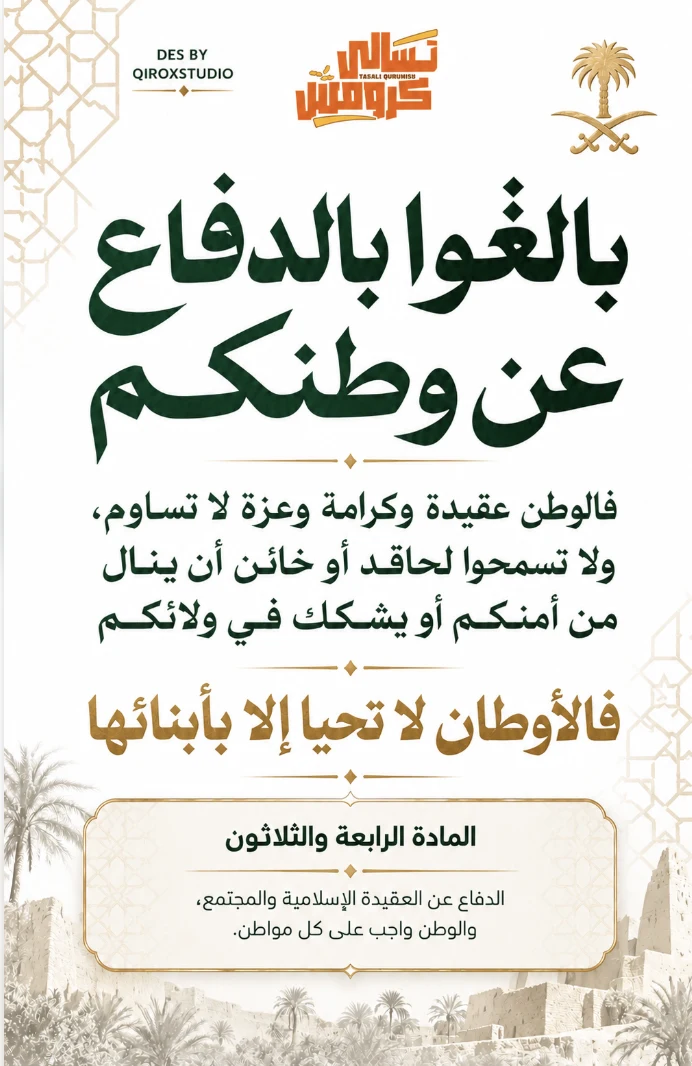
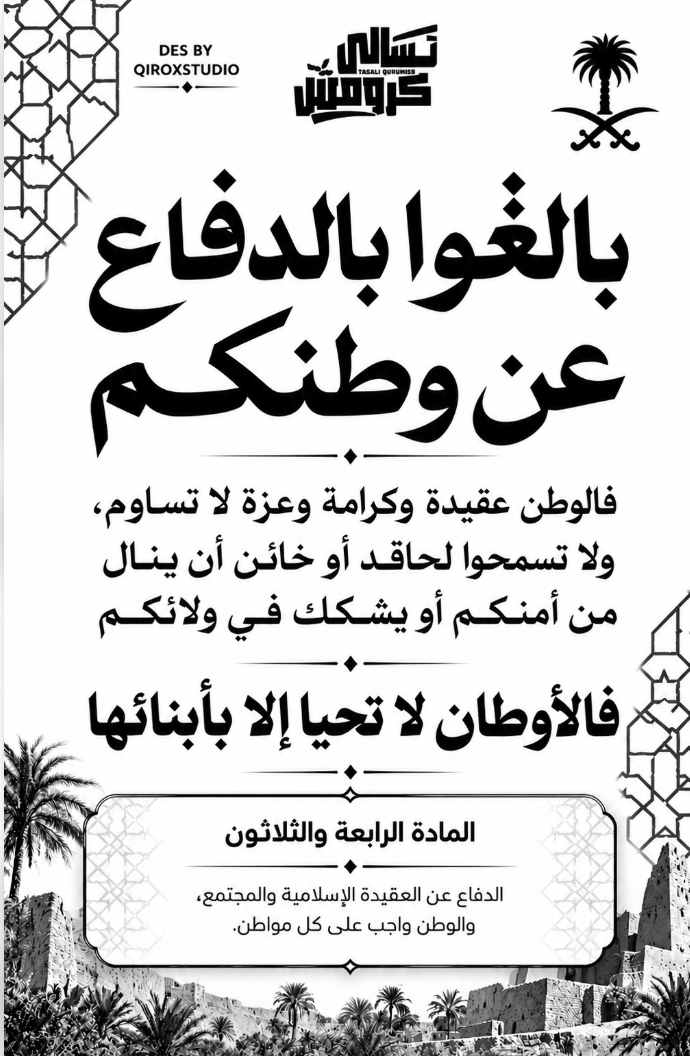
Update receipt settings and add campaign assets
Replit-Commit-Author: Agent

diff --git a/client/src/lib/receipt-template-settings.ts b/client/src/lib/receipt-template-settings.ts
@@ -1,7 +1,7 @@
 import QRCode from "qrcode";
 import JsBarcode from "jsbarcode";
 
-export const RECEIPT_CAMPAIGN_IMAGE = "/images/invoice-campaign.webp?v=2";
+export const RECEIPT_CAMPAIGN_IMAGE = "/images/invoice-campaign.webp?v=3";
 
 export type ReceiptTemplateMode = "default" | "campaign" | "custom";
 export type ReceiptCustomElementKind = "qr" | "barcode" | "link" | "text";
